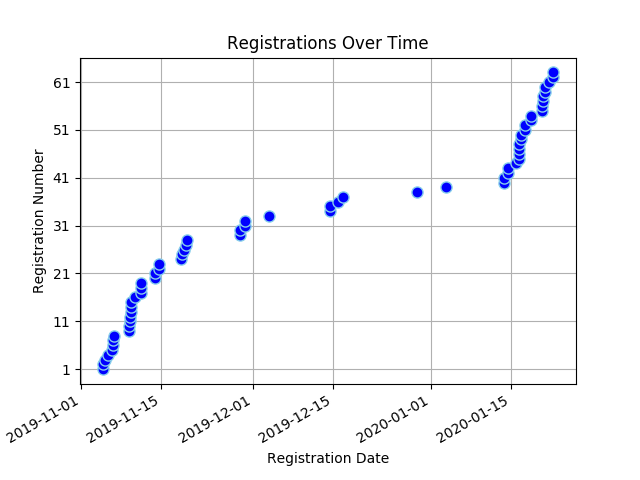
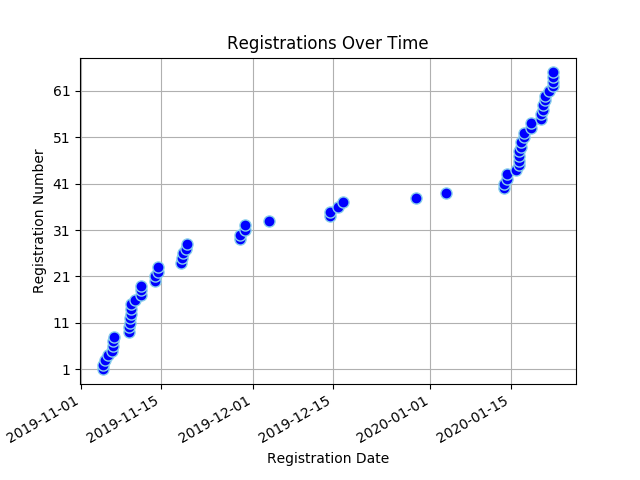
Registree stats backup on Wed Jan 22 11:15:44 SAST 2020

diff --git a/content/registrees/_index.md b/content/registrees/_index.md
@@ -3,11 +3,11 @@ title: Registration Stats
 draft: false
 ---
 
-<ul><li><strong>Number of Registrees</strong>: 63</li>
+<ul><li><strong>Number of Registrees</strong>: 65</li>
 
 <li><strong>Number of Clubs</strong>: 29</li>
 
-<li><strong>Club With Most Attendees</strong>: Cape Of Good Hope (9 registrees)</li>
+<li><strong>Club With Most Attendees</strong>: Cape Of Good Hope (11 registrees)</li>
 </ul><h2>Registrees</h2>
 
 <script type="text/javascript" src="https://ajax.googleapis.com/ajax/libs/jquery/3.4.1/jquery.min.js"></script>
@@ -30,6 +30,6 @@ draft: false
         </tr>
     </thead>
     <tbody>
-<tr><td>Valencia Beukes</td><td>Kuilsriver</td></tr><tr><td>Jose Braga Borges</td><td>Malmesbury</td></tr><tr><td>Nkandu Chapeshamano</td><td>Rustenburg</td></tr><tr><td>Lynnette Virginia Christians</td><td>Cape Of Good Hope</td></tr><tr><td>Sharon Cottle</td><td>Groote Schuur</td></tr><tr><td>Desiree Du Toit</td><td>Ramsgate</td></tr><tr><td>Charles Flanagan</td><td>Tokai</td></tr><tr><td>Julie Flanagan</td><td>Tokai</td></tr><tr><td>Allison Georges</td><td>Cape Of Good Hope</td></tr><tr><td>Valerie Graham</td><td>Nelspruit</td></tr><tr><td>Michael Graham</td><td>Nelspruit</td></tr><tr><td>Wendy Higgins</td><td>Wilro Park</td></tr><tr><td>Trevor Hobbs</td><td>North Durban</td></tr><tr><td>Avril Hobbs</td><td>North Durban</td></tr><tr><td>Jacqui Hocking</td><td>Midrand</td></tr><tr><td>Cliff Hocking</td><td>Midrand</td></tr><tr><td>Akinyemi Ismaila Tunde</td><td>Alberton</td></tr><tr><td>Dawid Jacobs</td><td>Durbanville</td></tr><tr><td>Charlotte Jubelin</td><td>Cape Of Good Hope</td></tr><tr><td>Zwaai Krüger</td><td>Sedgefield</td></tr><tr><td>Heather Lee</td><td>Cape Of Good Hope</td></tr><tr><td>Darrol Lee</td><td>Cape Of Good Hope</td></tr><tr><td>Lance Maytham</td><td>Bredasdorp</td></tr><tr><td>David McCullough</td><td>Benoni Lakes</td></tr><tr><td>Gizella McCullough</td><td>Benoni Lakes</td></tr><tr><td>Mark Meltzer</td><td>The Wilds</td></tr><tr><td>Roy Michas</td><td>Midrand</td></tr><tr><td>Dawn Michas</td><td>Midrand</td></tr><tr><td>Patrick Mills</td><td>Centurion</td></tr><tr><td>Bernice Mills</td><td>Centurion</td></tr><tr><td>Brian Moses</td><td>Cape Of Good Hope</td></tr><tr><td>Michael Newlands</td><td>Port Alfred</td></tr><tr><td>Jessica Philander</td><td>Cape Of Good Hope</td></tr><tr><td>Yvonne  Maureen Poyo</td><td>Cape Of Good Hope</td></tr><tr><td>Pinky Serobatse</td><td>(Partner in Service)</td></tr><tr><td>Susanna Helena Smit</td><td>Centurion</td></tr><tr><td>Herman Smit</td><td>Swellendam</td></tr><tr><td>Berdine Smit</td><td>(Partner in Service)</td></tr><tr><td>Bennie Smith</td><td>Wellington</td></tr><tr><td>Rochelle Smith</td><td>Cape Of Good Hope</td></tr><tr><td>Jeff Smith</td><td>Port Shepstone</td></tr><tr><td>Pierre Theron</td><td>Midrand</td></tr><tr><td>Moira Theron</td><td>Midrand</td></tr><tr><td>Alex Tshikala</td><td>Athlone</td></tr><tr><td>Alistair Tuckett</td><td>Roodepoort Clearwater Cyber</td></tr><tr><td>Gail Tuckett</td><td>Roodepoort Clearwater Cyber</td></tr><tr><td>Rowan Tuckett</td><td>Roodepoort Clearwater Cyber</td></tr><tr><td>Yolandi Van der Schyf</td><td>Midrand</td></tr><tr><td>Keith Weston</td><td>Scottburgh</td></tr><tr><td>Barbara Weston</td><td>Scottburgh</td></tr><tr><td>Joyce Wilcocks</td><td>Pretoria Jakaranda</td></tr><tr><td>Richard Williams</td><td>(Partner in Service)</td></tr><tr><td>Owolabi Williams Monzur</td><td>Badagry</td></tr><tr><td>Geila Wills</td><td>Cape Town</td></tr><tr><td>Judy Young</td><td>Durbanville</td></tr><tr><td>Sydney van Heerden</td><td>Wilro Park</td></tr><tr><td>Sandy van Heerden</td><td>Wilro Park</td></tr><tr><td>Lindie van Wyk</td><td>Pretoria Jakaranda</td></tr><tr><td>Vicki van Wyk</td><td>North Durban</td></tr><tr><td>Kim van Wyk</td><td>North Durban</td></tr><tr><td>Patricia van Wyk</td><td>Pretoria Jakaranda</td></tr><tr><td>Willie van Wyk</td><td>Midrand</td></tr><tr><td>Martha Maria van der Merwe</td><td>Malmesbury</td></tr>
+<tr><td>Valencia Beukes</td><td>Kuilsriver</td></tr><tr><td>Jose Braga Borges</td><td>Malmesbury</td></tr><tr><td>Nkandu Chapeshamano</td><td>Rustenburg</td></tr><tr><td>Lynnette Virginia Christians</td><td>Cape Of Good Hope</td></tr><tr><td>Sharon Cottle</td><td>Groote Schuur</td></tr><tr><td>Desiree Du Toit</td><td>Ramsgate</td></tr><tr><td>Charles Flanagan</td><td>Tokai</td></tr><tr><td>Julie Flanagan</td><td>Tokai</td></tr><tr><td>Allison Georges</td><td>Cape Of Good Hope</td></tr><tr><td>Valerie Graham</td><td>Nelspruit</td></tr><tr><td>Michael Graham</td><td>Nelspruit</td></tr><tr><td>Wendy Higgins</td><td>Wilro Park</td></tr><tr><td>Trevor Hobbs</td><td>North Durban</td></tr><tr><td>Avril Hobbs</td><td>North Durban</td></tr><tr><td>Jacqui Hocking</td><td>Midrand</td></tr><tr><td>Cliff Hocking</td><td>Midrand</td></tr><tr><td>Akinyemi Ismaila Tunde</td><td>Alberton</td></tr><tr><td>Dawid Jacobs</td><td>Durbanville</td></tr><tr><td>Charlotte Jubelin</td><td>Cape Of Good Hope</td></tr><tr><td>Pascal Kabangu</td><td>Cape Of Good Hope</td></tr><tr><td>Zwaai Krüger</td><td>Sedgefield</td></tr><tr><td>Heather Lee</td><td>Cape Of Good Hope</td></tr><tr><td>Darrol Lee</td><td>Cape Of Good Hope</td></tr><tr><td>Lance Maytham</td><td>Bredasdorp</td></tr><tr><td>David McCullough</td><td>Benoni Lakes</td></tr><tr><td>Gizella McCullough</td><td>Benoni Lakes</td></tr><tr><td>Mark Meltzer</td><td>The Wilds</td></tr><tr><td>Roy Michas</td><td>Midrand</td></tr><tr><td>Dawn Michas</td><td>Midrand</td></tr><tr><td>Patrick Mills</td><td>Centurion</td></tr><tr><td>Bernice Mills</td><td>Centurion</td></tr><tr><td>Brian Moses</td><td>Cape Of Good Hope</td></tr><tr><td>Alain Moulounda</td><td>Cape Of Good Hope</td></tr><tr><td>Michael Newlands</td><td>Port Alfred</td></tr><tr><td>Jessica Philander</td><td>Cape Of Good Hope</td></tr><tr><td>Yvonne  Maureen Poyo</td><td>Cape Of Good Hope</td></tr><tr><td>Pinky Serobatse</td><td>(Partner in Service)</td></tr><tr><td>Susanna Helena Smit</td><td>Centurion</td></tr><tr><td>Herman Smit</td><td>Swellendam</td></tr><tr><td>Berdine Smit</td><td>(Partner in Service)</td></tr><tr><td>Bennie Smith</td><td>Wellington</td></tr><tr><td>Rochelle Smith</td><td>Cape Of Good Hope</td></tr><tr><td>Jeff Smith</td><td>Port Shepstone</td></tr><tr><td>Pierre Theron</td><td>Midrand</td></tr><tr><td>Moira Theron</td><td>Midrand</td></tr><tr><td>Alex Tshikala</td><td>Athlone</td></tr><tr><td>Alistair Tuckett</td><td>Roodepoort Clearwater Cyber</td></tr><tr><td>Gail Tuckett</td><td>Roodepoort Clearwater Cyber</td></tr><tr><td>Rowan Tuckett</td><td>Roodepoort Clearwater Cyber</td></tr><tr><td>Yolandi Van der Schyf</td><td>Midrand</td></tr><tr><td>Keith Weston</td><td>Scottburgh</td></tr><tr><td>Barbara Weston</td><td>Scottburgh</td></tr><tr><td>Joyce Wilcocks</td><td>Pretoria Jakaranda</td></tr><tr><td>Richard Williams</td><td>(Partner in Service)</td></tr><tr><td>Owolabi Williams Monzur</td><td>Badagry</td></tr><tr><td>Geila Wills</td><td>Cape Town</td></tr><tr><td>Judy Young</td><td>Durbanville</td></tr><tr><td>Sydney van Heerden</td><td>Wilro Park</td></tr><tr><td>Sandy van Heerden</td><td>Wilro Park</td></tr><tr><td>Lindie van Wyk</td><td>Pretoria Jakaranda</td></tr><tr><td>Vicki van Wyk</td><td>North Durban</td></tr><tr><td>Kim van Wyk</td><td>North Durban</td></tr><tr><td>Patricia van Wyk</td><td>Pretoria Jakaranda</td></tr><tr><td>Willie van Wyk</td><td>Midrand</td></tr><tr><td>Martha Maria van der Merwe</td><td>Malmesbury</td></tr>
 </tbody>
 </table>

diff --git a/content/full_stats/_index.md b/content/full_stats/_index.md
@@ -11,18 +11,18 @@
 <body>
 <h1 style="color: #000000;">Full Registration Stats</h1>
 <ul><li><strong>Number of Registrees</strong><ul>
-<li><strong>Total</strong>: 63</li>
-<li><strong>Lions</strong>: 60</li>
+<li><strong>Total</strong>: 65</li>
+<li><strong>Lions</strong>: 62</li>
 <li><strong>Partners In Service</strong>: 3</li>
 </ul>
 <li><strong>Number of Clubs</strong>: 29</li>
-<li><strong>Club With Most Attendees</strong>: Cape Of Good Hope (9 registrees)</li>
-<li><strong>Registrations</strong></li><ul><li><strong>Full</strong>: 62
+<li><strong>Club With Most Attendees</strong>: Cape Of Good Hope (11 registrees)</li>
+<li><strong>Registrations</strong></li><ul><li><strong>Full</strong>: 64
 <li><strong>Banquet</strong>: 1
 <li><strong>Convention</strong>: 0
 <li><strong>Theme</strong>: 1
 </ul><li><strong>Extra Items</strong></li><ul>
-<li><strong>Pins</strong>: 57
+<li><strong>Pins</strong>: 59
 </ul><li><strong>Extra Activities</strong></li><ul>
 <li><strong>MJF Lunch</strong>: 19
 <li><strong>PDG Breakfast</strong>: 15
@@ -32,9 +32,9 @@
 <li><strong>Service Project</strong>: 15
 <li><strong>Partner Program</strong>: 3
 </ul>
-<li><strong>Total Owed:</strong> R83755.00</li>
+<li><strong>Total Owed:</strong> R86435.00</li>
 <li><strong>Paid:</strong> R27825.00</li>
-<li><strong>Still Owed:</strong> R55930.00</li>
+<li><strong>Still Owed:</strong> R58610.00</li>
 <li><strong>Dietary Requirements</strong></li><ul>
 <li>Allergic to cheese and cream</li>
 <li>Allergic to fish</li>
@@ -285,6 +285,17 @@ StillOwed
 </tr>
 
     
+<tr style="background-color: yellow">
+<td>72</td>
+<td>Pascal Kabangu</td>
+<td>Cape Of Good Hope</td>
+<td>Lion Pascal Kabangu</td>
+<td>1340.00</td>
+<td>0.00</td>
+<td>1340.00</td>
+</tr>
+
+    
 <tr>
 <td>29</td>
 <td>Zwaai Krüger</td>
@@ -411,6 +422,17 @@ StillOwed
 <td>Brian Moses</td>
 <td>Cape Of Good Hope</td>
 <td>LP Brian Moses</td>
+<td>1340.00</td>
+<td>0.00</td>
+<td>1340.00</td>
+</tr>
+
+    
+<tr style="background-color: yellow">
+<td>71</td>
+<td>Alain Moulounda</td>
+<td>Cape Of Good Hope</td>
+<td>Lion Alain Moulounda</td>
 <td>1340.00</td>
 <td>0.00</td>
 <td>1340.00</td>
